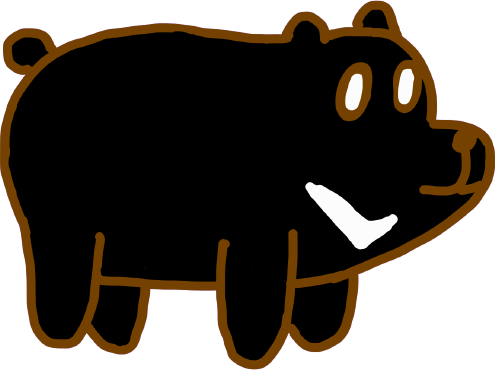
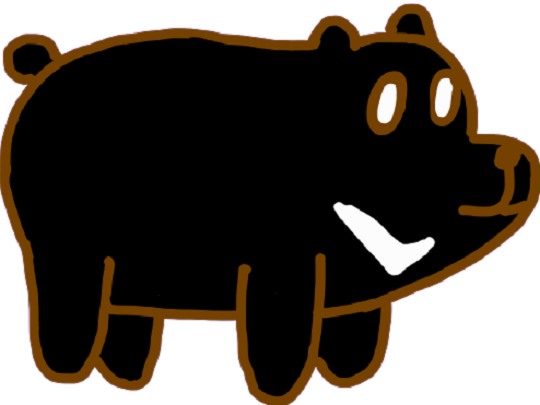
Resize pictures, switch pictures when jumping

diff --git a/BearGame/Character.cpp b/BearGame/Character.cpp
@@ -38,15 +38,16 @@ void Character::jump()
 	this->g = 10.f;
 }
 
-void Character::move()
+void Character::jumpMove()
 {
+	texture.bear.loadFromFile("Image/bear_jump.png");
 	character.move(Vector2f(0,-jumpSpeed));
 	jumpSpeed = jumpSpeed - g;
 	Vector2f position = character.getPosition();
 	if (position.y >= 330.0f)
 	{
-		//character.setPosition(Vector2f(120.f, 330.f));
 		status = Character::IDLE;
+		texture.bear.loadFromFile("Image/bear_idle1.png");
 	}
 }
 
@@ -62,7 +63,7 @@ bool Character::loadTexture(Type type)
 	switch (type)
 	{
 	case Character::Bear:
-		return texture.bear.loadFromFile("Image/bear_jump.png");
+		return texture.bear.loadFromFile("Image/bear_idle1.png");
 	default:
 		cout << "Invalid Character loadTexture" << endl;
 		return false;

diff --git a/BearGame/Game.cpp b/BearGame/Game.cpp
@@ -66,7 +66,7 @@ void Game::pressInput()
 		}
 		else if (Keyboard::isKeyPressed(Keyboard::Down))
 		{
-			// mCharacter->squat();
+			//mCharacter->squat();
 		}
 	}
 	// trigger props-cast event
@@ -84,7 +84,7 @@ void Game::updateCharacter()
 {
 	if (mCharacter->getStatus() != Character::IDLE)
 	{
-		mCharacter->move();
+		mCharacter->jumpMove();
 	}
 }
 
@@ -226,7 +226,7 @@ void Game::render()
 	// Draw the line
 	RectangleShape line(Vector2f(window.getSize().x, 2));
 	line.setFillColor(Color::Black);
-	line.setPosition(0, 435);
+	line.setPosition(0, 450);
 	window.draw(line);
 
 	// draw Character

diff --git a/BearGame/Character.h b/BearGame/Character.h
@@ -8,6 +8,8 @@ using namespace std;
 struct Character_texture
 {
 	Texture bear;
+	Texture jump;
+	Texture squat;
 };
 
 class Character
@@ -34,8 +36,8 @@ public:
 	void squat();
 	// action method: idle
 	void idle();
-	// keep moving
-	void move();
+
+	void jumpMove();
 
 	Status getStatus() { return this->status; };
 	Sprite getSprite() { return this->character; };
